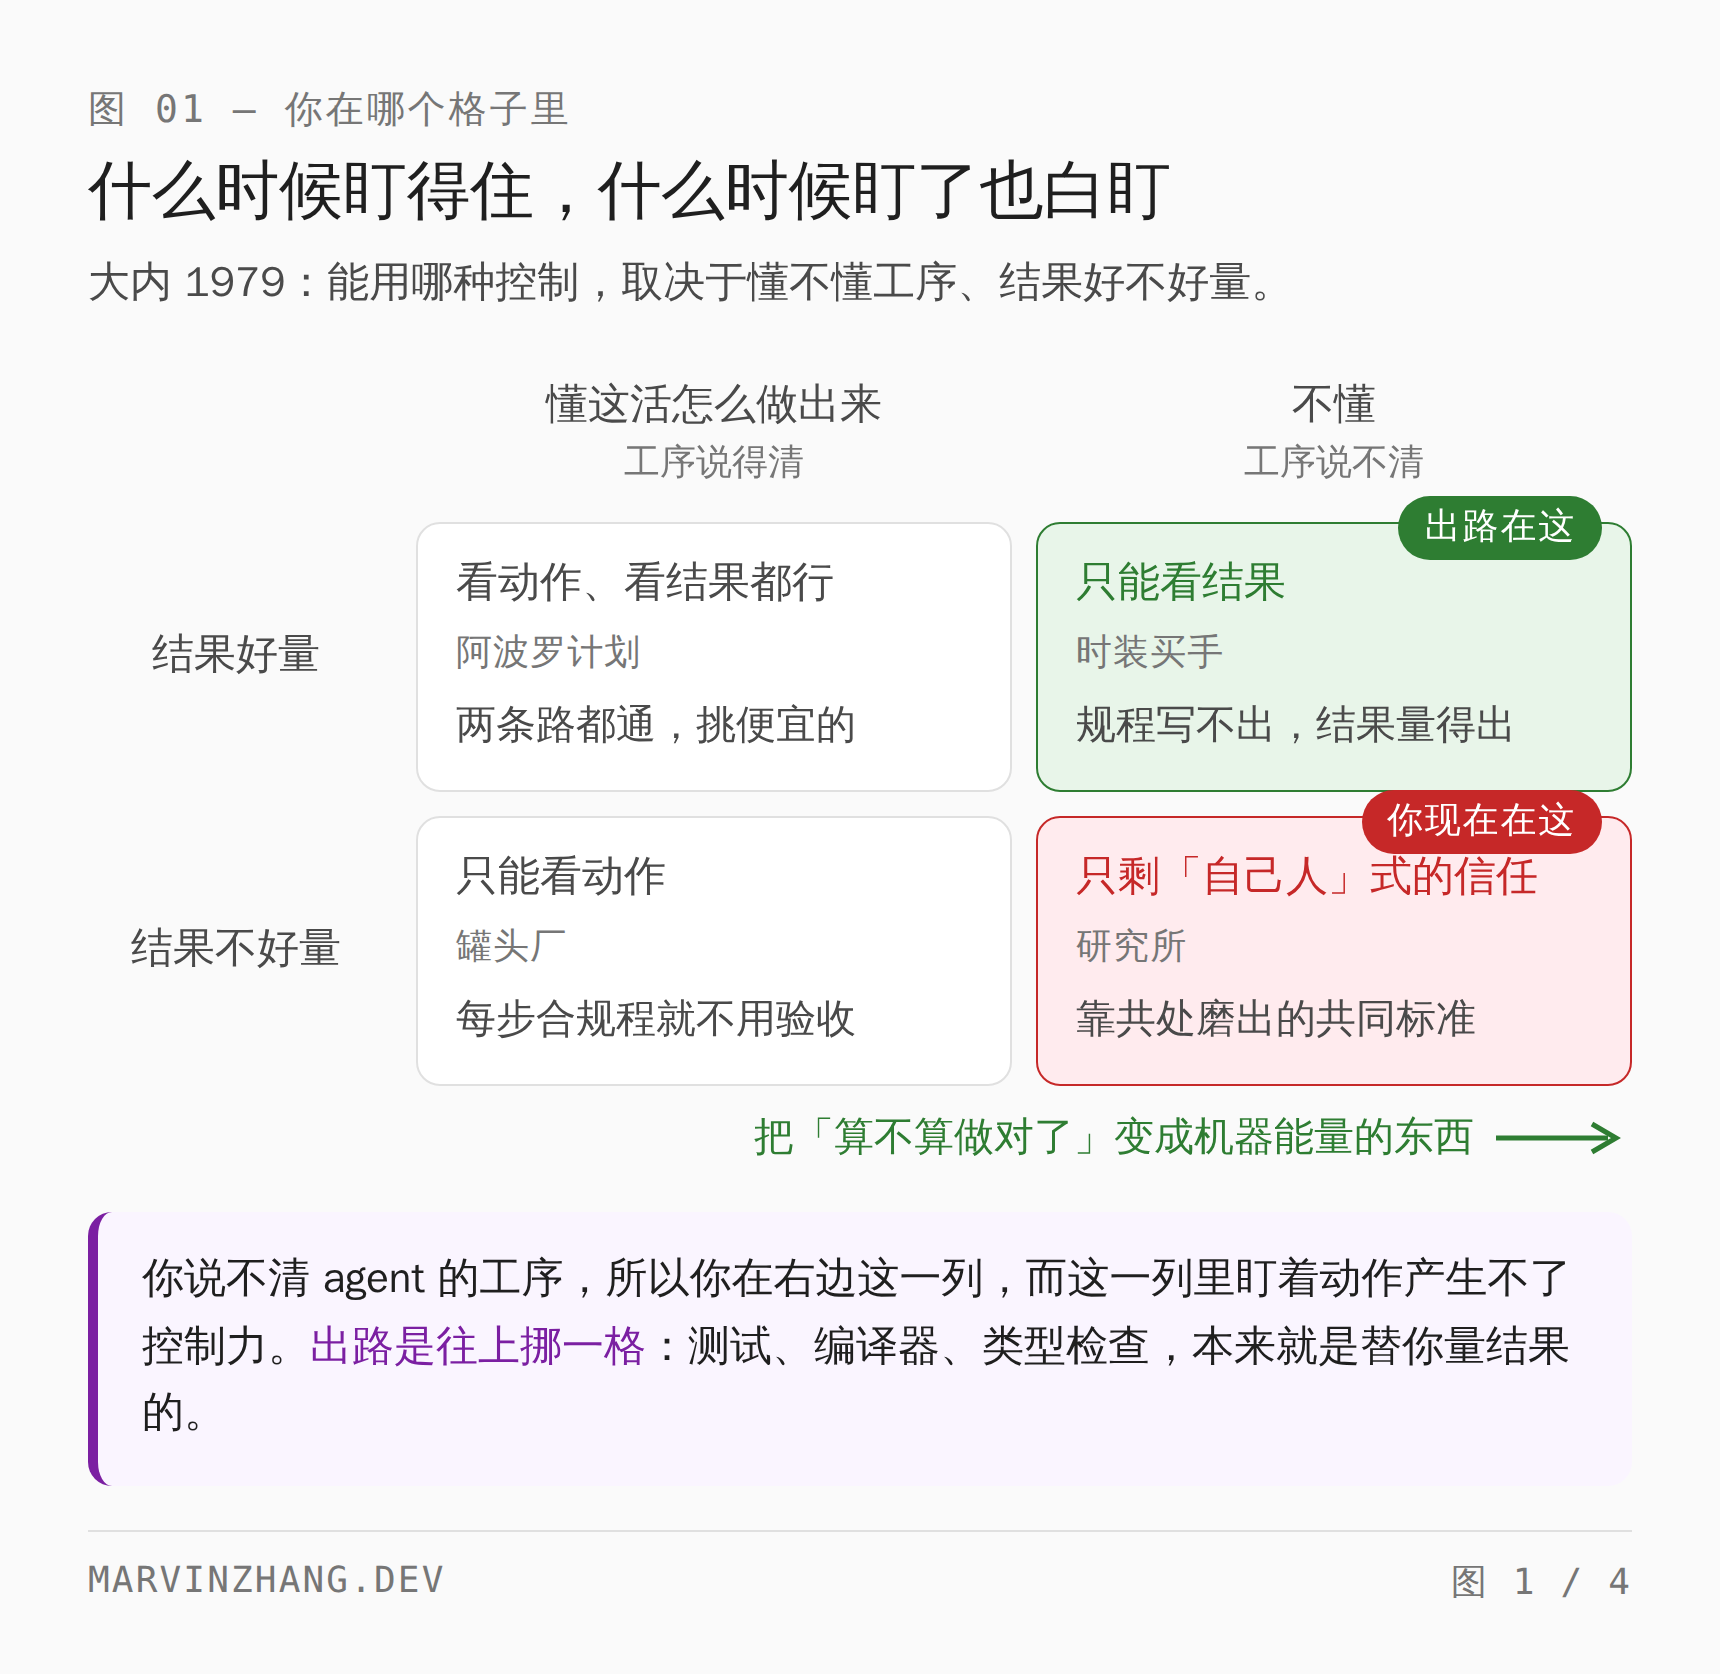
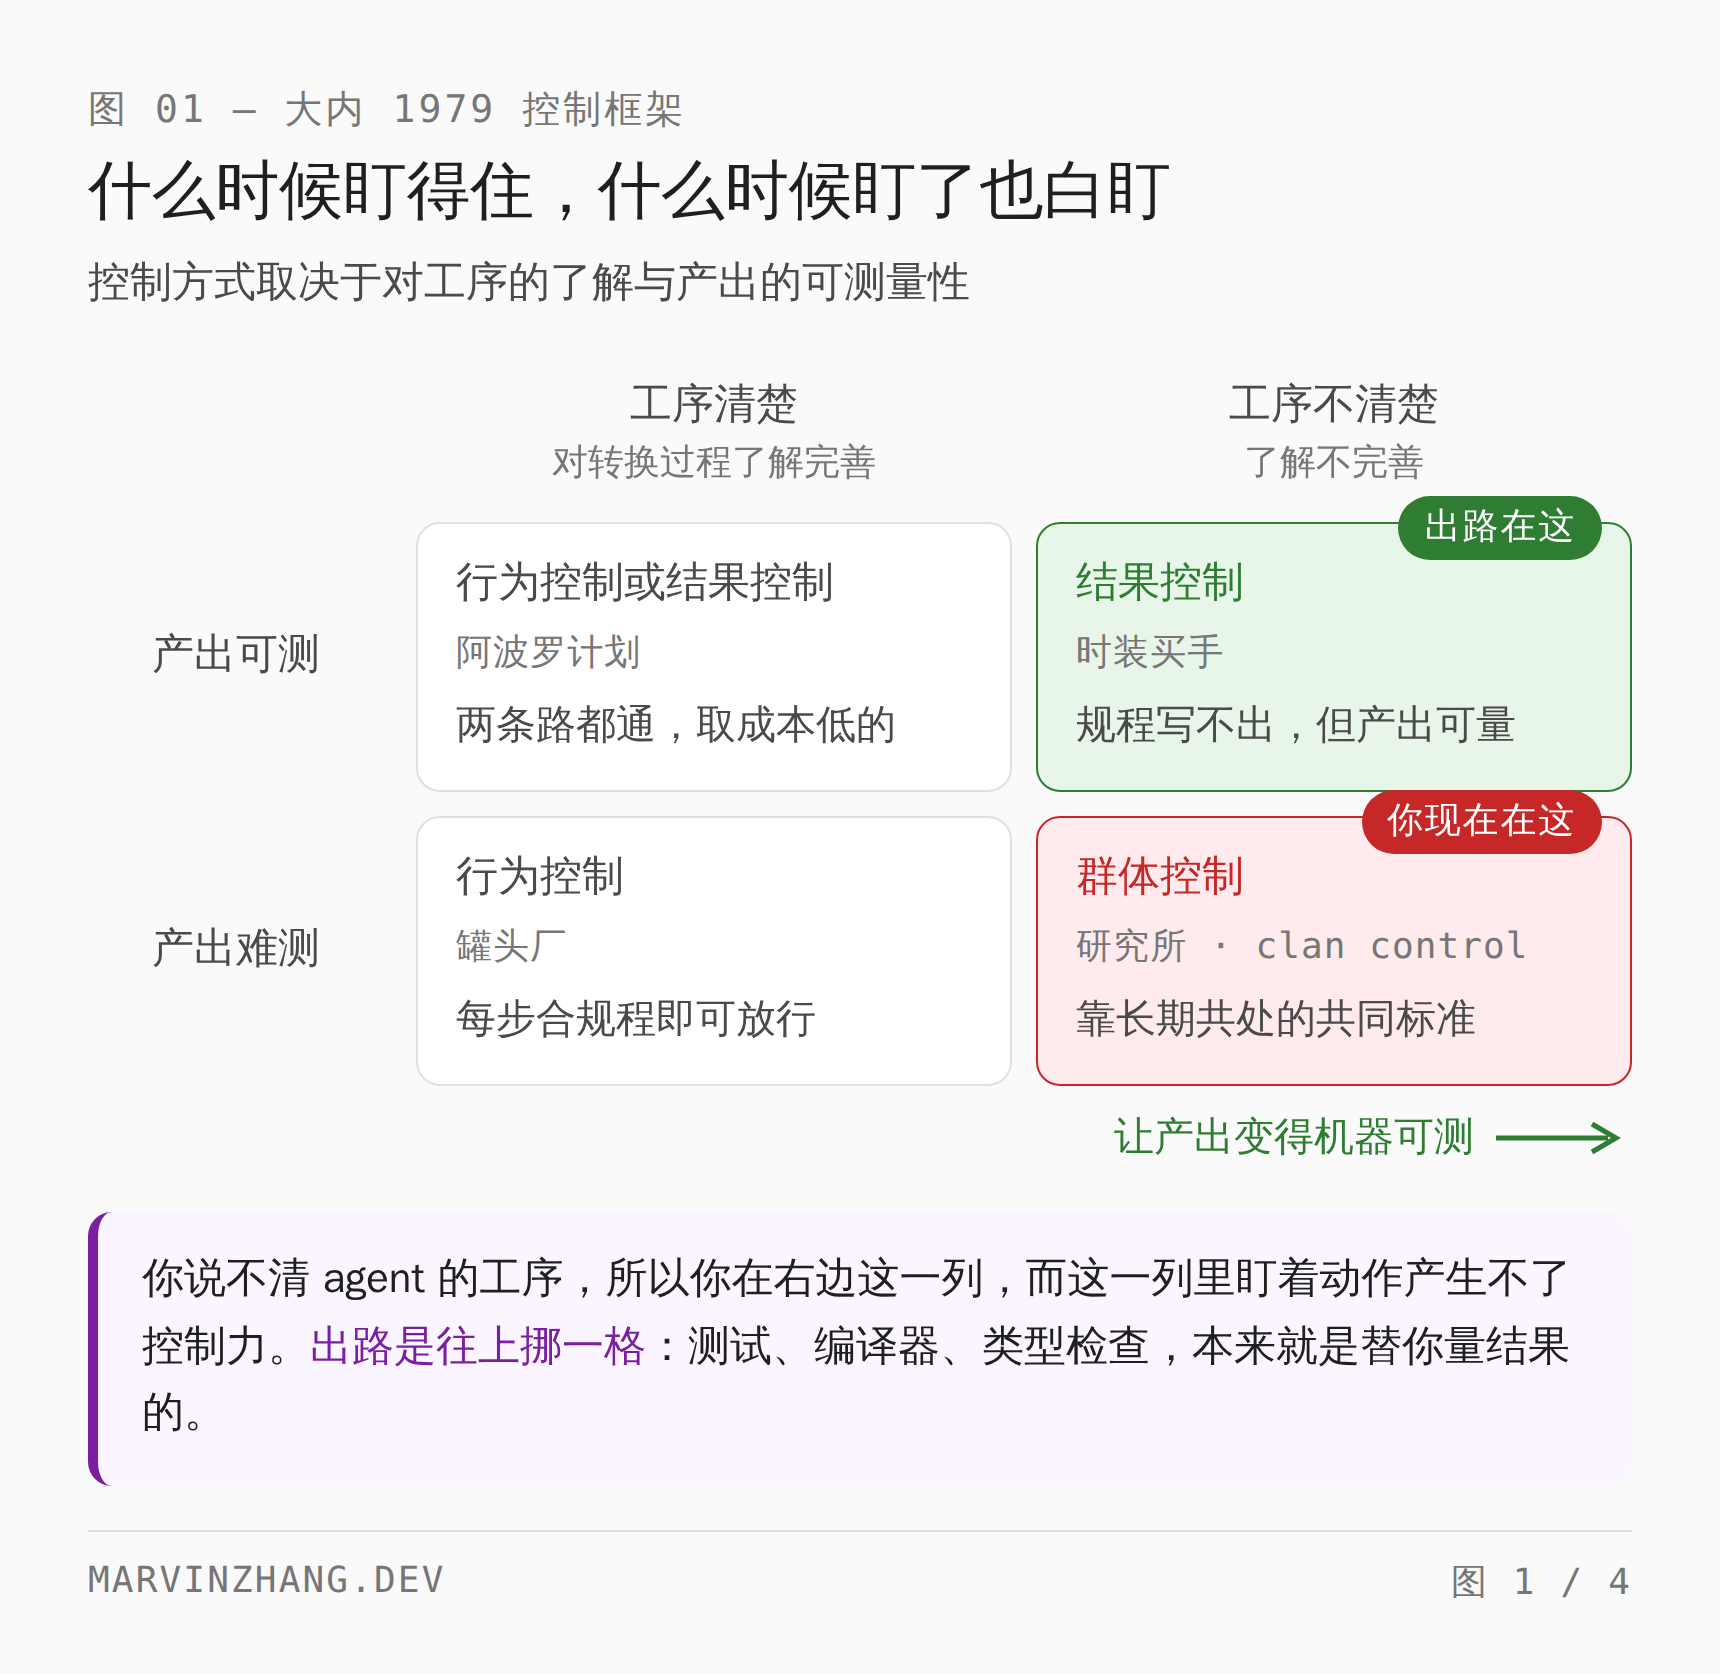
Use Ouchi's own terms in figure 1, not the article's paraphrase
The four quadrants read as spoken language: 看动作、看结果都行 /
只能看结果 / 只能看动作 / 只剩「自己人」式的信任. A figure is a reference
the reader returns to, so it should carry the terminology; the prose beside
it is where the plain speech belongs. Having both do the same job left the
figure with neither precision nor brevity.

The cells now name the controls: 行为控制 / 结果控制 / 群体控制, with the
combined cell as 行为控制或结果控制. The colloquial gloss moves down into
each cell's note, so the article's 看动作 / 看结果 still maps onto the grid
without the figure having to speak that way.

The axes follow the framework too: 对转换过程的了解 (工序清楚 / 不清楚)
and 产出的可测量性 (可测 / 难测), rather than 结果好量 / 不好量.

群体控制 carries "clan control" as a tag on its example line — it is the
one term here whose Chinese rendering varies between translations, so it is
the one worth annotating. The other three are unambiguous, and putting the
English on all of them crowded the subtitle into an orphaned line.

The arrow annotation goes the same way: 把「算不算做对了」变成机器能量的
东西 → 让产出变得机器可测.

Title and takeaway keep their voice. Those are the figure's hook and its
so-what, and they should sound like the article; the grid is the part that
needs to be exact.

English figure synced to match, using behavior / output / clan control
directly.

Claude-Session: https://claude.ai/code/session_013SXeSeVJxSr2JRLCpiPBGP

diff --git a/drafts/2026-08-10-stop-babysitting-your-agent/figures/figure-1-control.en.html b/drafts/2026-08-10-stop-babysitting-your-agent/figures/figure-1-control.en.html
@@ -69,45 +69,45 @@
 <body>
 <div class="canvas">
 <div class="header">
-  <div class="figno">Figure 01 — Which cell are you in</div>
+  <div class="figno">Figure 01 — Ouchi's 1979 control framework</div>
   <h1>When watching works, and when it buys you nothing</h1>
-  <div class="subtitle">Ouchi 1979: the control available to you depends on whether you understand the process, and whether output is measurable.</div>
+  <div class="subtitle">Which control is available depends on knowledge of the transformation process and the measurability of output.</div>
 </div>
 
 <div class="grid">
   <div class="corner"></div>
-  <div class="colhead">You understand the process<span class="sub">steps can be specified</span></div>
-  <div class="colhead">You don't<span class="sub">steps can't be specified</span></div>
+  <div class="colhead">Process understood<span class="sub">steps can be specified</span></div>
+  <div class="colhead">Not understood<span class="sub">steps can't be specified</span></div>
 
-  <div class="rowhead">Output is measurable</div>
+  <div class="rowhead">Output measurable</div>
   <div class="cell dim">
-    <div class="mode">Watch behavior or output</div>
+    <div class="mode">Behavior or output control</div>
     <div class="eg">Apollo program</div>
-    <div class="note">Both roads open, so take the cheaper.</div>
+    <div class="note">Both routes open; take the cheaper.</div>
   </div>
   <div class="cell goal">
     <div class="pin out">the way out</div>
-    <div class="mode">Watch output only</div>
+    <div class="mode">Output control</div>
     <div class="eg">Fashion buyer</div>
-    <div class="note">No rules for picking stock, but margin is measurable.</div>
+    <div class="note">No rules to write, but margin is measurable.</div>
   </div>
 
-  <div class="rowhead">Output isn't measurable</div>
+  <div class="rowhead">Output not measurable</div>
   <div class="cell dim">
-    <div class="mode">Watch behavior only</div>
+    <div class="mode">Behavior control</div>
     <div class="eg">Tin can plant</div>
-    <div class="note">Every step conforms, so the far end needs no check.</div>
+    <div class="note">Every step conforms, so the output passes.</div>
   </div>
   <div class="cell here">
     <div class="pin now">you are here</div>
-    <div class="mode">Only “one of us” trust is left</div>
+    <div class="mode">Clan control</div>
     <div class="eg">Research lab</div>
-    <div class="note">Runs on standards built over years. You have none with an agent.</div>
+    <div class="note">Standards built over years together.</div>
   </div>
 </div>
 
 <div class="arrow">
-  <span class="txt">Make “did this come out right” machine-measurable</span>
+  <span class="txt">Make output machine-measurable</span>
   <svg width="70" height="22" viewBox="0 0 70 22"><line x1="2" y1="11" x2="58" y2="11" stroke="#2e7d32" stroke-width="2.5"/><path d="M50,4 L62,11 L50,18" fill="none" stroke="#2e7d32" stroke-width="2.5"/></svg>
 </div>
 

diff --git a/drafts/2026-08-10-stop-babysitting-your-agent/figures/figure-1-control.zh.html b/drafts/2026-08-10-stop-babysitting-your-agent/figures/figure-1-control.zh.html
@@ -70,45 +70,45 @@
 <body>
 <div class="canvas">
 <div class="header">
-  <div class="figno">图 01 — 你在哪个格子里</div>
+  <div class="figno">图 01 — 大内 1979 控制框架</div>
   <h1>什么时候盯得住，什么时候盯了也白盯</h1>
-  <div class="subtitle">大内 1979：能用哪种控制，取决于懂不懂工序、结果好不好量。</div>
+  <div class="subtitle">控制方式取决于对工序的了解与产出的可测量性</div>
 </div>
 
 <div class="grid">
   <div class="corner"></div>
-  <div class="colhead">懂这活怎么做出来<span class="sub">工序说得清</span></div>
-  <div class="colhead">不懂<span class="sub">工序说不清</span></div>
+  <div class="colhead">工序清楚<span class="sub">对转换过程了解完善</span></div>
+  <div class="colhead">工序不清楚<span class="sub">了解不完善</span></div>
 
-  <div class="rowhead">结果好量</div>
+  <div class="rowhead">产出可测</div>
   <div class="cell dim">
-    <div class="mode">看动作、看结果都行</div>
+    <div class="mode">行为控制或结果控制</div>
     <div class="eg">阿波罗计划</div>
-    <div class="note">两条路都通，挑便宜的</div>
+    <div class="note">两条路都通，取成本低的</div>
   </div>
   <div class="cell goal">
     <div class="pin out">出路在这</div>
-    <div class="mode">只能看结果</div>
+    <div class="mode">结果控制</div>
     <div class="eg">时装买手</div>
-    <div class="note">规程写不出，结果量得出</div>
+    <div class="note">规程写不出，但产出可量</div>
   </div>
 
-  <div class="rowhead">结果不好量</div>
+  <div class="rowhead">产出难测</div>
   <div class="cell dim">
-    <div class="mode">只能看动作</div>
+    <div class="mode">行为控制</div>
     <div class="eg">罐头厂</div>
-    <div class="note">每步合规程就不用验收</div>
+    <div class="note">每步合规程即可放行</div>
   </div>
   <div class="cell here">
     <div class="pin now">你现在在这</div>
-    <div class="mode">只剩「自己人」式的信任</div>
-    <div class="eg">研究所</div>
-    <div class="note">靠共处磨出的共同标准</div>
+    <div class="mode">群体控制</div>
+    <div class="eg">研究所 · clan control</div>
+    <div class="note">靠长期共处的共同标准</div>
   </div>
 </div>
 
 <div class="arrow">
-  <span class="txt">把「算不算做对了」变成机器能量的东西</span>
+  <span class="txt">让产出变得机器可测</span>
   <svg width="70" height="22" viewBox="0 0 70 22"><line x1="2" y1="11" x2="58" y2="11" stroke="#2e7d32" stroke-width="2.5"/><path d="M50,4 L62,11 L50,18" fill="none" stroke="#2e7d32" stroke-width="2.5"/></svg>
 </div>
 
